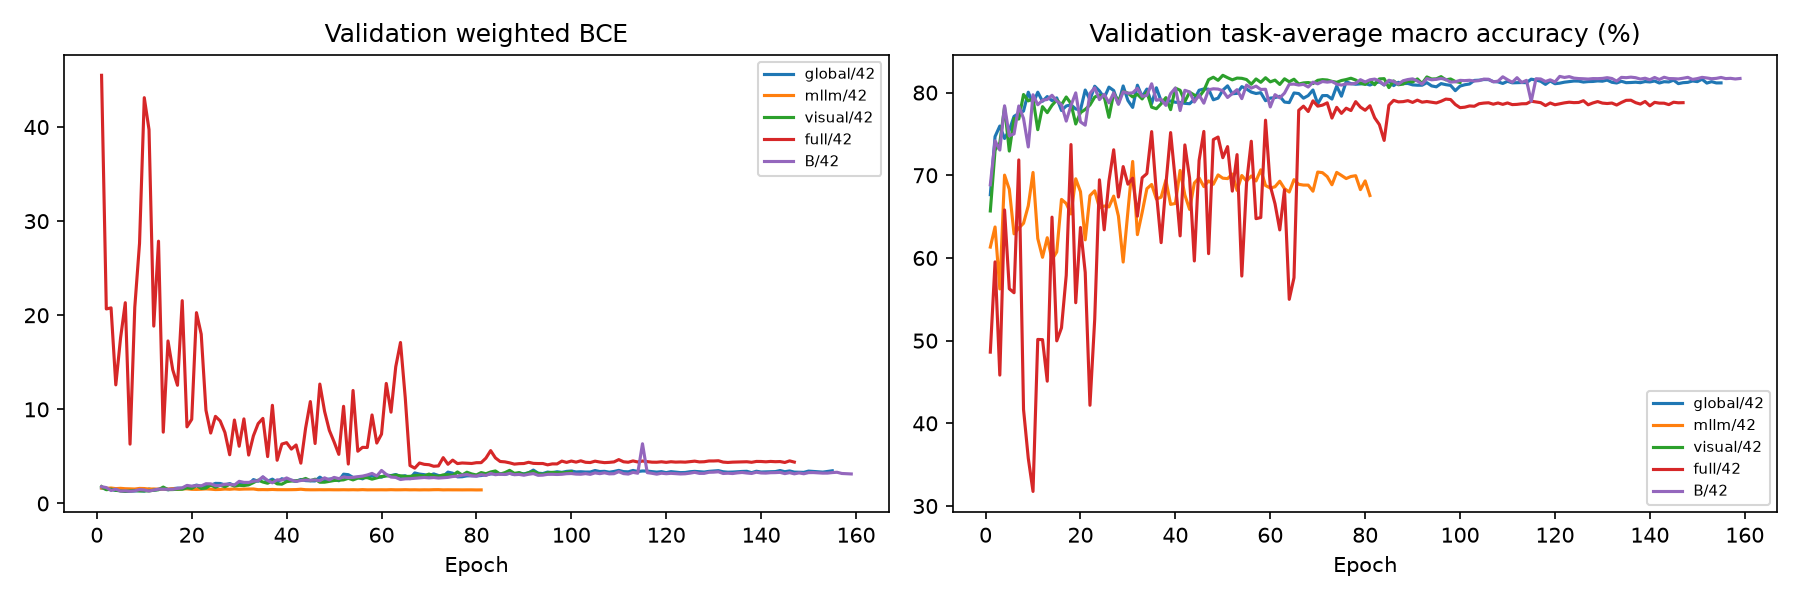
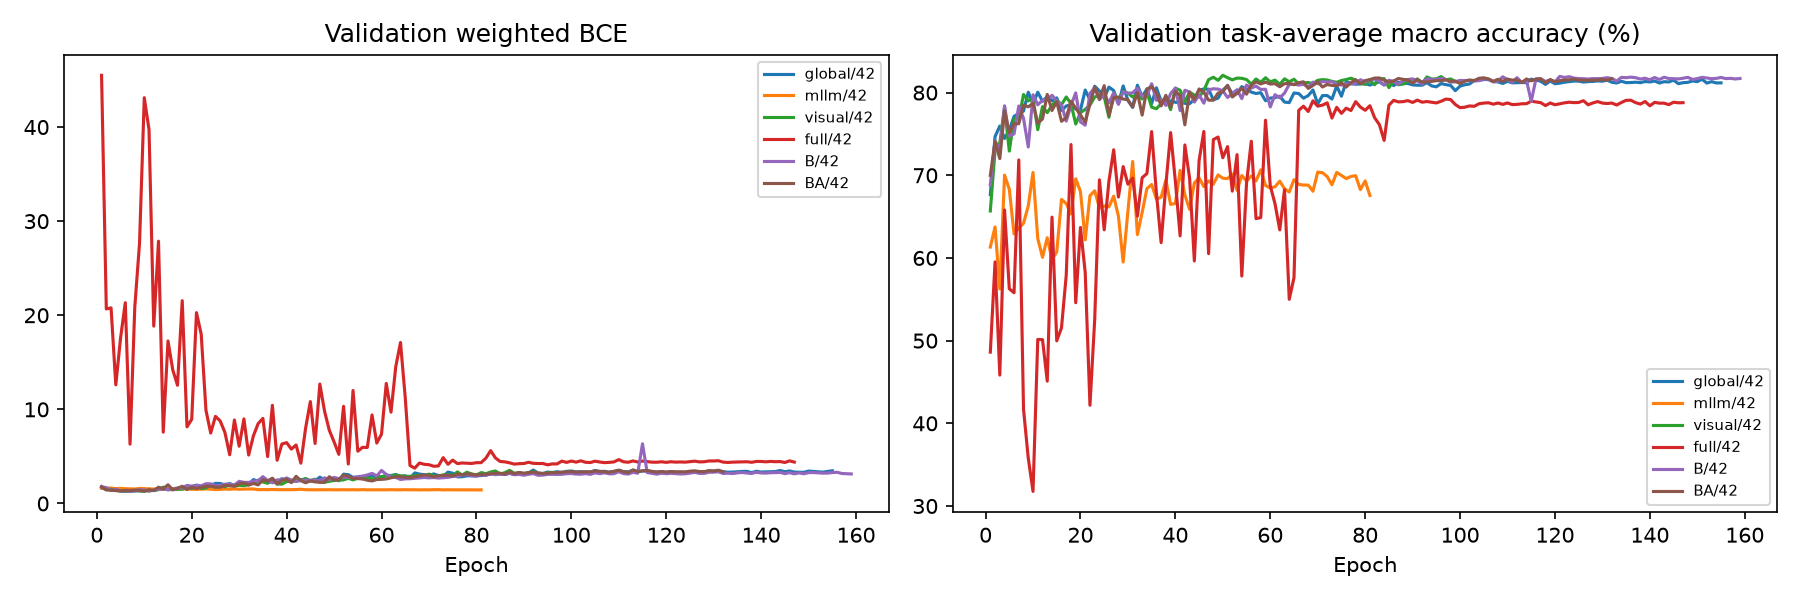
results: BA seed 42 reproduction milestone

diff --git a/reports/reproduction/20261005_042629_774918_suite/reproduction_report.md b/reports/reproduction/20261005_042629_774918_suite/reproduction_report.md
@@ -14,6 +14,7 @@ code_compat 保留独立七图增强、无 ImageNet normalization、global-only 
 | visual | 42 | 49 | 84.76 / 71.47 | 79.53 / 82.09 |
 | full | 42 | 96 | 83.24 / 68.15 | 76.80 / 79.70 |
 | B | 42 | 108 | 85.31 / 70.88 | 78.66 / 81.01 |
+| BA | 42 | 81 | 85.01 / 70.78 | 78.86 / 81.47 |
 
 六组消融和主模型多 seed 的运行状态见 `run_status.json`；未完成时不宣称整个复现完成。
 TVMoE 等外部实现/同 split 逐图预测、论文 Sankey 8×5 公式仍缺失，不能复现对应比较和图。
